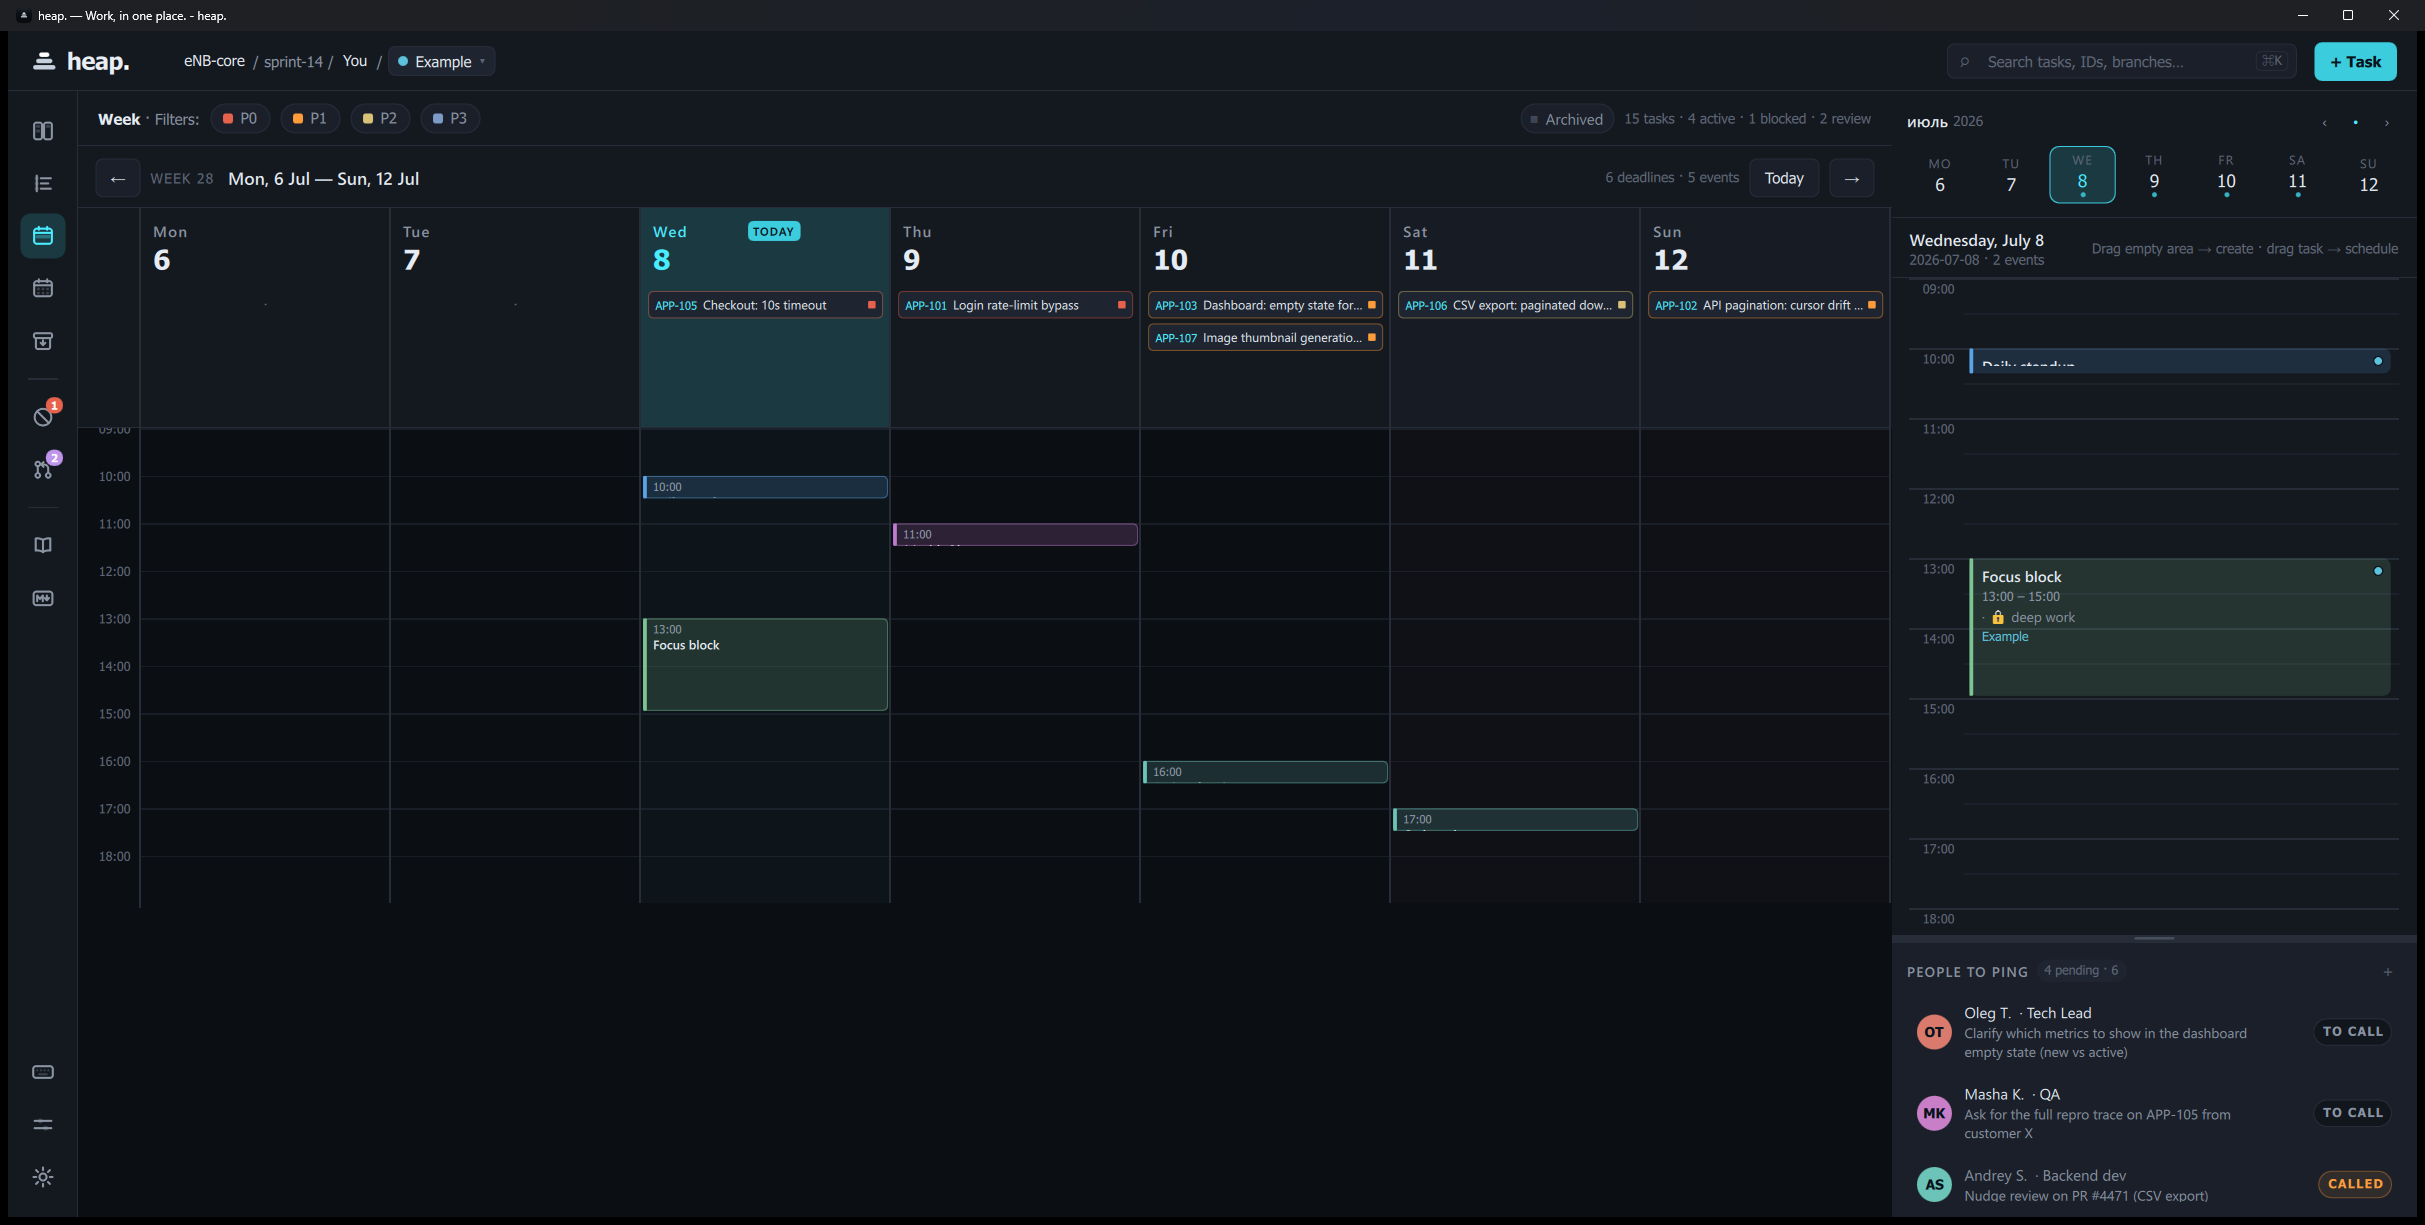
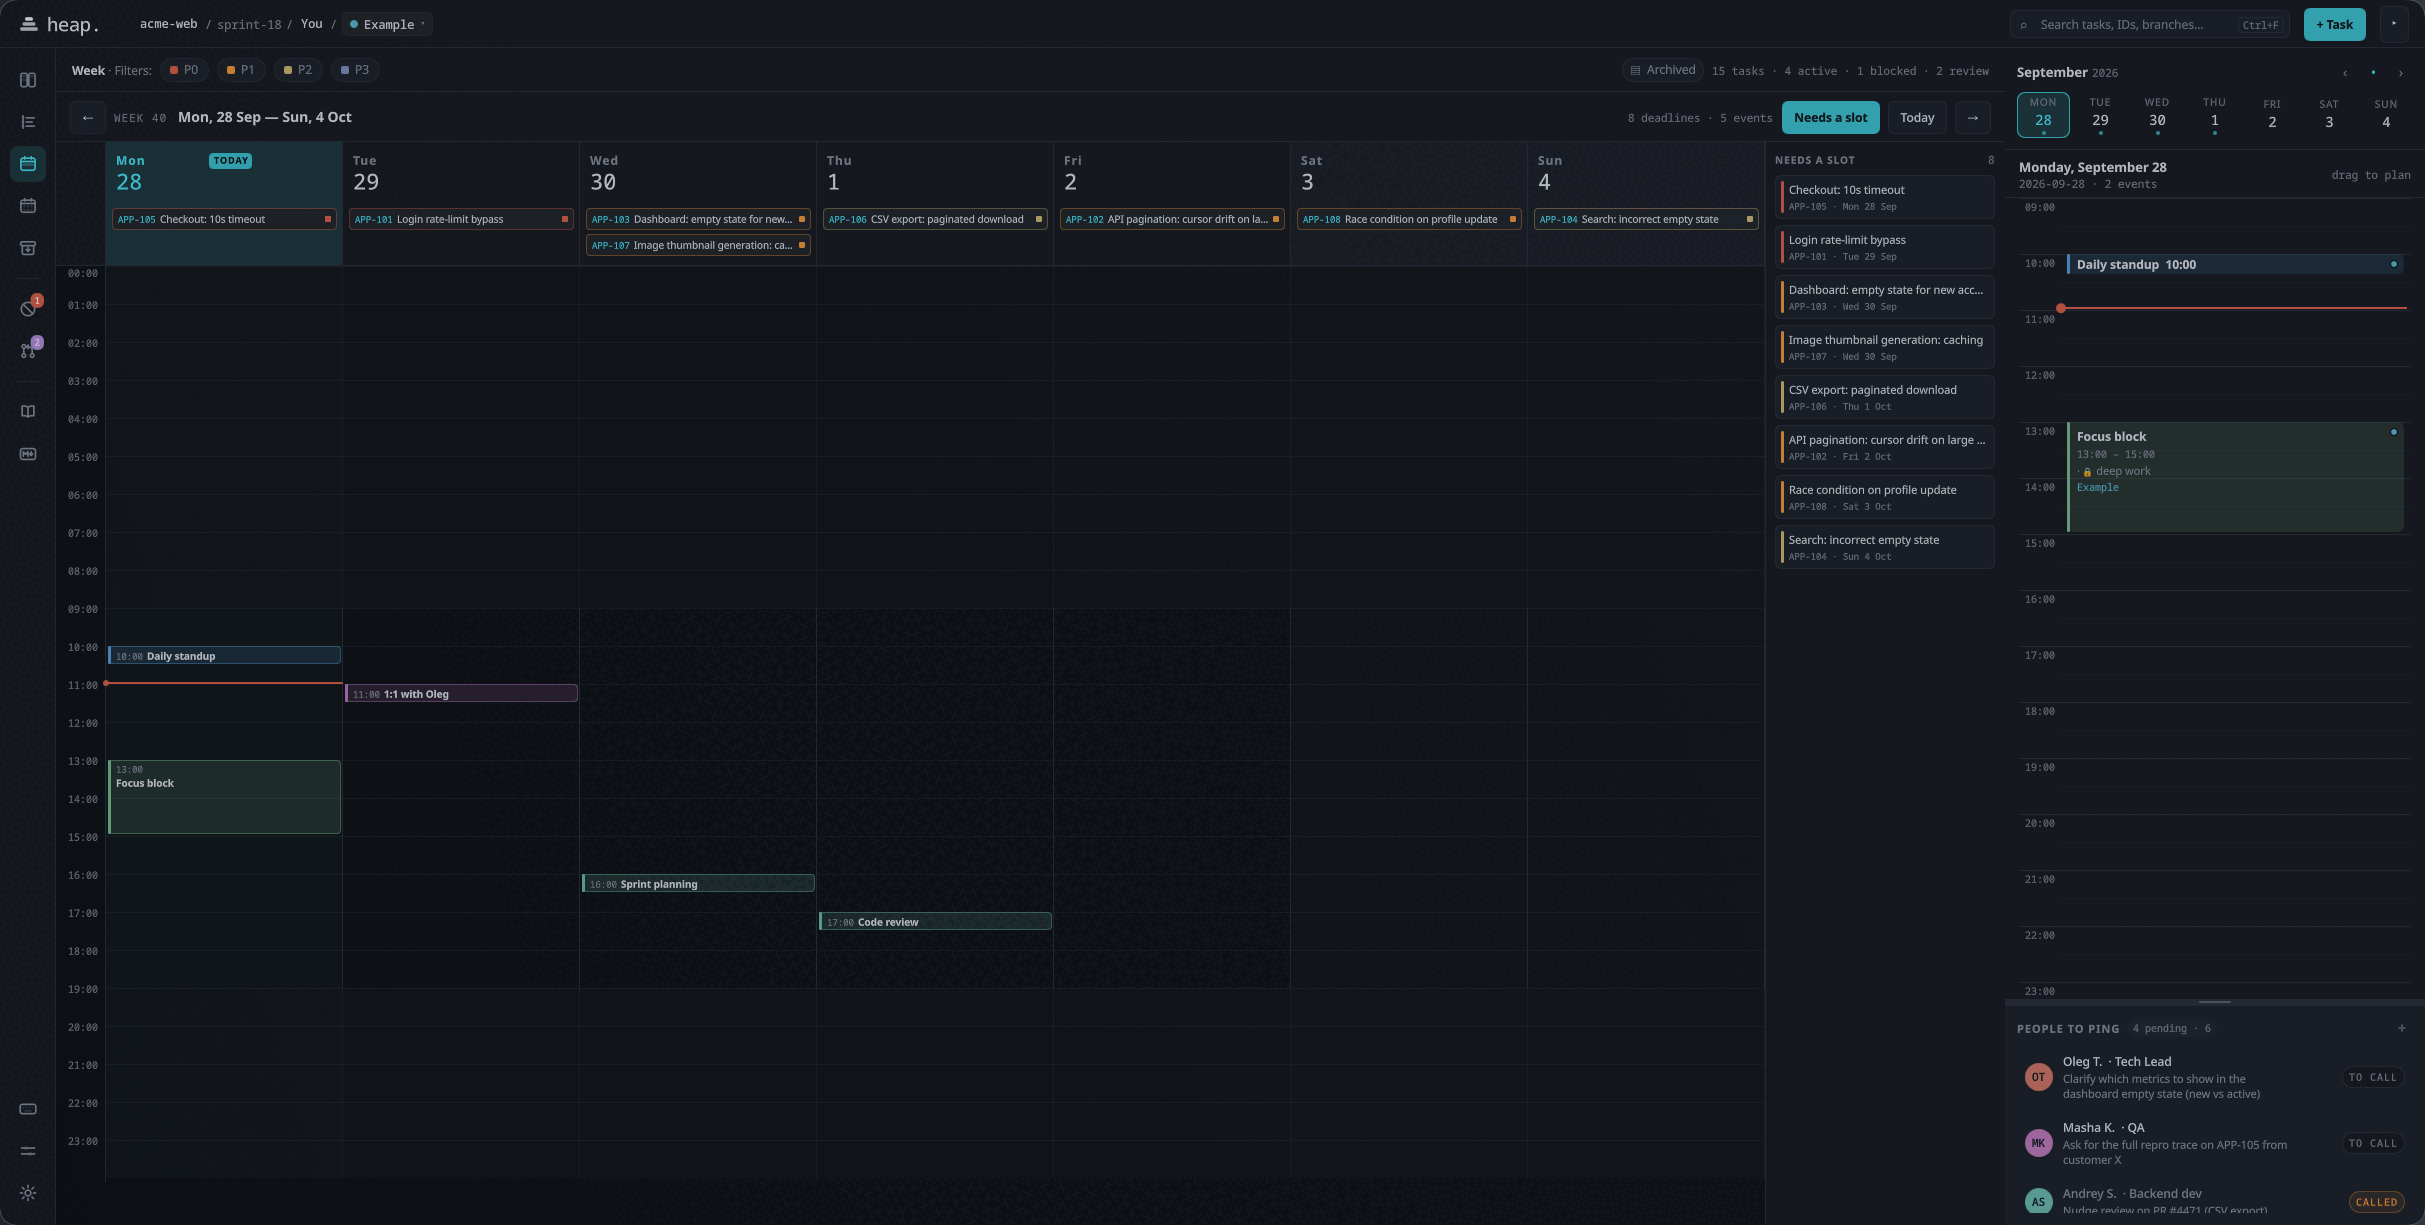
docs: fresh screenshots and a README that matches the code
Re-shoot every screenshot from the current master build on a clean
sample profile: no private project names in the breadcrumb, and the
board no longer shows the "NaNd" deadline. Notes open in split view,
Settings on Integrations. Quantised to 256 colours, as before.

README: eight trackers besides GitHub/GitLab/Jira/Trello (not nine),
write-back is open/closed with a repository set, the keyboard table
matches the shortcut catalog (Archive is Ctrl+5, undo/redo, right panel,
new person/profile), Windows needs qt6-networkauth and qtkeychain, Arch
can build on system Qt, the CI description covers the macOS leg, qmllint,
nightly and the site workflow, and the layout lists board/, cal/ and
undo/. The gallery gains the week view and the Hotkeys panel.

diff --git a/README.md b/README.md
@@ -43,9 +43,9 @@ it watches your working copy and matches the current branch to the task you're o
   leaves the machine.
 - **Git-aware.** The active branch is matched to a task by id, the matching card is decorated with its branch, and a
   focused-repo banner surfaces branch + PR state — no manual linking.
-- **Connected, not locked-in.** Sync issues from GitHub, GitLab, Jira, Trello and nine more trackers, and pull the
+- **Connected, not locked-in.** Sync issues from GitHub, GitLab, Jira, Trello and eight more trackers, and pull the
   people you work with out of Mattermost — sign in through the browser or paste a token, credentials kept in the OS
-  keychain, status written back when you move a card. Your data still lives in one local file.
+  keychain, open/closed written back when you move a card. Your data still lives in one local file.
 - **Keyboard-first.** A `Ctrl+K` command palette with full-text search, global quick-capture from anywhere, and a fully
   rebindable shortcut map.
 - **One window, every surface.** Board, timeline, week, month, docs, notes, calendar, people — one process, one
@@ -70,48 +70,59 @@ note; markdown editor with headings, task lists, tables, fenced code with syntax
 with backlinks and an offer to write the note a broken link was asking for · Import and export notes as a folder of
 `.md` files, Obsidian-compatible.
 
-**Connect** — Tracker integrations for GitHub, GitLab, Jira, Trello and nine more (Gitea, Forgejo, Redmine, Todoist,
-Asana, ClickUp, Sentry, Bitbucket) — browser sign-in or a token, issues mirrored as cards, status written back on
-column move (GitHub / GitLab / Gitea / Forgejo), tokens in the OS keychain, optional timed auto-sync. Mattermost
+**Connect** — Tracker integrations for GitHub, GitLab, Jira, Trello and eight more (Gitea, Forgejo, Redmine, Todoist,
+Asana, ClickUp, Sentry, Bitbucket) — browser sign-in or a token, issues mirrored as cards, your statuses mapped onto
+your columns, open/closed written back on column move (GitHub / GitLab / Gitea / Forgejo, with a repository set),
+tokens in the OS keychain, optional timed auto-sync. Mattermost
 imports the people you talk to as contacts and `@handles` instead. See
 [`docs/INTEGRATIONS.md`](docs/INTEGRATIONS.md).
 
 **Flow** — Git-aware board · Quick-capture task / note via a global hotkey · `Ctrl+K` command palette (full-text search
 across tasks, notes, docs & snippets) · Profiles (feature-scoped workspaces with JSON import/export) · Automation
 (60-second tick auto-archives, warns on stuck tasks, fires deadline + standup reminders; respects quiet hours) ·
-Interactive first-run guide · In-app update check.
+Undo and redo for every change · Interactive first-run guide · In-app update check.
 
 ## A look inside
 
 <table>
 <tr>
   <td width="50%" valign="top">
-    <a href="docs/assets/img/screens/settings-integrations.png"><img src="docs/assets/img/screens/settings-integrations.png" alt="Tracker integrations — Settings"></a>
-    <sub><b>Integrations</b> — GitHub, GitLab, Jira, Trello + 9 more, one-click connect.</sub>
+    <a href="docs/assets/img/screens/board-week.png"><img src="docs/assets/img/screens/board-week.png" alt="Week view"></a>
+    <sub><b>Week</b> — seven days, overlapping events side by side, a rail of tasks that still need a slot.</sub>
   </td>
   <td width="50%" valign="top">
-    <a href="docs/assets/img/screens/welcome.png"><img src="docs/assets/img/screens/welcome.png" alt="Interactive welcome guide"></a>
-    <sub><b>First run</b> — an interactive, skippable, replayable guided tour.</sub>
+    <a href="docs/assets/img/screens/board-timeline.png"><img src="docs/assets/img/screens/board-timeline.png" alt="Timeline view"></a>
+    <sub><b>Timeline</b> — every task bucketed by deadline.</sub>
   </td>
 </tr>
 <tr>
   <td valign="top">
-    <a href="docs/assets/img/screens/board-timeline.png"><img src="docs/assets/img/screens/board-timeline.png" alt="Timeline view"></a>
-    <sub><b>Timeline</b> — every task bucketed by deadline.</sub>
+    <a href="docs/assets/img/screens/board-notes.png"><img src="docs/assets/img/screens/board-notes.png" alt="Notes view"></a>
+    <sub><b>Notes</b> — Markdown with a live rendered view, <code>[[wiki-links]]</code>, <code>@people</code>, task lists.</sub>
   </td>
+  <td valign="top">
+    <a href="docs/assets/img/screens/board-docs.png"><img src="docs/assets/img/screens/board-docs.png" alt="Docs view"></a>
+    <sub><b>Docs</b> — pages and a reference catalog: sections, snippets, contacts.</sub>
+  </td>
+</tr>
+<tr>
   <td valign="top">
     <a href="docs/assets/img/screens/board-month.png"><img src="docs/assets/img/screens/board-month.png" alt="Month view"></a>
     <sub><b>Month</b> — tasks and events across the whole month.</sub>
   </td>
+  <td valign="top">
+    <a href="docs/assets/img/screens/settings-integrations.png"><img src="docs/assets/img/screens/settings-integrations.png" alt="Tracker integrations — Settings"></a>
+    <sub><b>Integrations</b> — GitHub, GitLab, Jira, Trello + 8 more, and Mattermost.</sub>
+  </td>
 </tr>
 <tr>
   <td valign="top">
-    <a href="docs/assets/img/screens/board-docs.png"><img src="docs/assets/img/screens/board-docs.png" alt="Docs view"></a>
-    <sub><b>Docs</b> — sections, snippets with highlighting, contacts.</sub>
+    <a href="docs/assets/img/screens/hotkeys-tweaks.png"><img src="docs/assets/img/screens/hotkeys-tweaks.png" alt="Hotkeys panel"></a>
+    <sub><b>Hotkeys</b> — every shortcut in one panel, rebindable in place.</sub>
   </td>
   <td valign="top">
-    <a href="docs/assets/img/screens/board-notes.png"><img src="docs/assets/img/screens/board-notes.png" alt="Notes view"></a>
-    <sub><b>Notes</b> — a markdown editor with a live rendered view.</sub>
+    <a href="docs/assets/img/screens/welcome.png"><img src="docs/assets/img/screens/welcome.png" alt="Interactive welcome guide"></a>
+    <sub><b>First run</b> — a sample board and a skippable, replayable guided tour.</sub>
   </td>
 </tr>
 </table>
@@ -152,7 +163,13 @@ cmake --build build -j
 
 ### Linux
 
-Distribution Qt is often too old: Ubuntu 24.04 ships 6.4, on which the UI does not run. Take Qt 6.9 from
+On a rolling distribution with a current Qt (Arch ships 6.11), the system packages are enough:
+
+```sh
+sudo pacman -S --needed qt6-base qt6-declarative qt6-svg qt6-networkauth qtkeychain-qt6 cmake ninja
+```
+
+Elsewhere distribution Qt is often too old: Ubuntu 24.04 ships 6.4, on which the UI does not run. Take Qt 6.9 from
 [aqtinstall](https://github.com/miurahr/aqtinstall) (what CI does) or the Qt online installer:
 
 ```sh
@@ -185,6 +202,8 @@ cmake --build build -j
        mingw-w64-ucrt-x86_64-qt6-declarative \
        mingw-w64-ucrt-x86_64-qt6-svg \
        mingw-w64-ucrt-x86_64-qt6-tools \
+       mingw-w64-ucrt-x86_64-qt6-networkauth \
+       mingw-w64-ucrt-x86_64-qtkeychain \
        git
    ```
 
@@ -209,9 +228,10 @@ Defaults — every entry is rebindable from **Settings → Shortcuts** or the fl
 | Board cursor      | `J` `K` `H` `L` | Move the card     | `Shift`+ the same |
 | Calendar: today   | `T`          | Calendar: go to date | `G`          |
 | Next / prev profile | `Ctrl+]` / `Ctrl+[` | Export profile → Markdown | `Ctrl+Shift+E` |
-| Focus search      | `Ctrl+F`     | Undo last change  | `Ctrl+Z`     |
+| Focus search      | `Ctrl+F`     | Undo / redo       | `Ctrl+Z` / `Ctrl+Shift+Z` |
 | Tweaks / Hotkeys  | `Ctrl+,` / `Ctrl+/` | Select all / clear / delete | `Ctrl+A` / `Esc` / `Del` |
-| Archive / Weekly report | `Ctrl+7` / `Ctrl+Shift+W` | Toggle theme | `Ctrl+Shift+T` |
+| Weekly report     | `Ctrl+Shift+W` | Toggle theme    | `Ctrl+Shift+T` |
+| Toggle right panel | `Ctrl+\`   | New person / profile | `Ctrl+Shift+U` / `Ctrl+Shift+P` |
 
 ## Documentation
 
@@ -220,6 +240,8 @@ Defaults — every entry is rebindable from **Settings → Shortcuts** or the fl
 - [**Tracker integrations**](docs/INTEGRATIONS.md) — connecting GitHub / GitLab / Jira / Trello and the rest.
 - [**Data & backups**](docs/DATA.md) — where your data lives, backups, moving a profile between machines.
 - [**Packaging**](docs/PACKAGING.md) — how the installer / AppImage / portable bundles are built.
+
+The same guides are published, with search, at [sectapunterx.github.io/heap/docs](https://sectapunterx.github.io/heap/docs/).
 
 ## Data & backups
 
@@ -236,11 +258,15 @@ Defaults — every entry is rebindable from **Settings → Shortcuts** or the fl
 git clone https://github.com/sectapunterx/heap && cd heap
 cmake -S . -B build && cmake --build build -j        # app
 cmake --build build --target heap_all_tests          # tests
-ctest --test-dir build/tests --output-on-failure     # 27 suites
+ctest --test-dir build/tests --output-on-failure
 ```
 
-CI (`.github/workflows/ci.yml`) runs clang-format + clang-tidy, a Linux + Windows build/test matrix, and an
-ASan/UBSan pass on every PR. Work on a branch off `master` named `heap-<ticket>_<short-desc>`; keep the tree green.
+CI (`.github/workflows/ci.yml`) checks clang-format and clang-tidy on the changed lines, builds and tests on Linux,
+Windows and macOS, runs an ASan/UBSan pass, a qmllint ratchet and actionlint, and smoke-tests the app — the `ci`
+check gates the merge into `master`. A PR that only touches docs or Markdown skips the build. A nightly run
+(`nightly.yml`) adds the next Qt, fuzzing, coverage and a full release build. The website in `site/` has its own
+workflow (`pages.yml`); see [`site/README.md`](site/README.md). Work on a branch off `master` named
+`heap-<ticket>_<short-desc>`; keep the tree green.
 
 ## Project layout
 
@@ -254,7 +280,10 @@ ASan/UBSan pass on every PR. Work on a branch off `master` named `heap-<ticket>_
 │  ├─ Models.{h,cpp}       ← TaskModel / EventModel / PersonModel (QAbstractListModel)
 │  ├─ SampleData.{h,cpp}   ← seed tasks / events / people for first run
 │  ├─ CodeHighlighter.{h,cpp}  ← QSyntaxHighlighter for the docs snippet editor
-│  ├─ markdown/             ← parser, block model and editor ops for Notes
+│  ├─ board/               ← card ranks for the manual board order
+│  ├─ cal/                 ← calendar: recurrence rules, occurrences, reminders, .ics, event clamping
+│  ├─ undo/                ← the undo / redo stack
+│  ├─ markdown/            ← parser, block model and editor ops for Notes
 │  ├─ chrono/              ← natural-language date parser (Quick-capture)
 │  ├─ git/                 ← GitWatcher + branch↔task matcher (git-aware board)
 │  ├─ text/                ← task-text classification / parsing helpers
@@ -263,7 +292,7 @@ ASan/UBSan pass on every PR. Work on a branch off `master` named `heap-<ticket>_
 │  ├─ query/               ← Notes query-language parser
 │  ├─ notify/              ← cross-platform notifications (tray / D-Bus)
 │  ├─ platform/            ← global hotkey backend (Win32 RegisterHotKey)
-│  ├─ integrations/        ← tracker sync: 13 providers + Mattermost contacts, OAuth, keychain
+│  ├─ integrations/        ← tracker sync: 12 trackers + Mattermost contacts, OAuth, keychain
 │  ├─ sync/                ← BYOS serializer + 3-way JSON merge (internal)
 │  └─ update/              ← GitHub-releases update check
 ├─ qml/                    ← all views + singletons (Theme, Brand, I18n) — see below

diff --git a/site/README.md b/site/README.md
@@ -83,7 +83,5 @@ Release workflow finishes, so the download page and changelog follow each releas
 
 ## Known issues
 
-- The app screenshots in `docs/assets/img/screens` show a real profile name (`eNB-core`) in the breadcrumb and
-  a "NaNd" deadline bug on the Backlog cards (`board-kanban.png`). Re-shoot them on a neutral profile.
 - In `design/brand-export/surfaces/heap-og-card.svg` the wordmark's dot is a separate text element at a fixed
   position, so without IBM Plex Sans installed it renders as "heap .". `public/og.png` is rendered from it.
